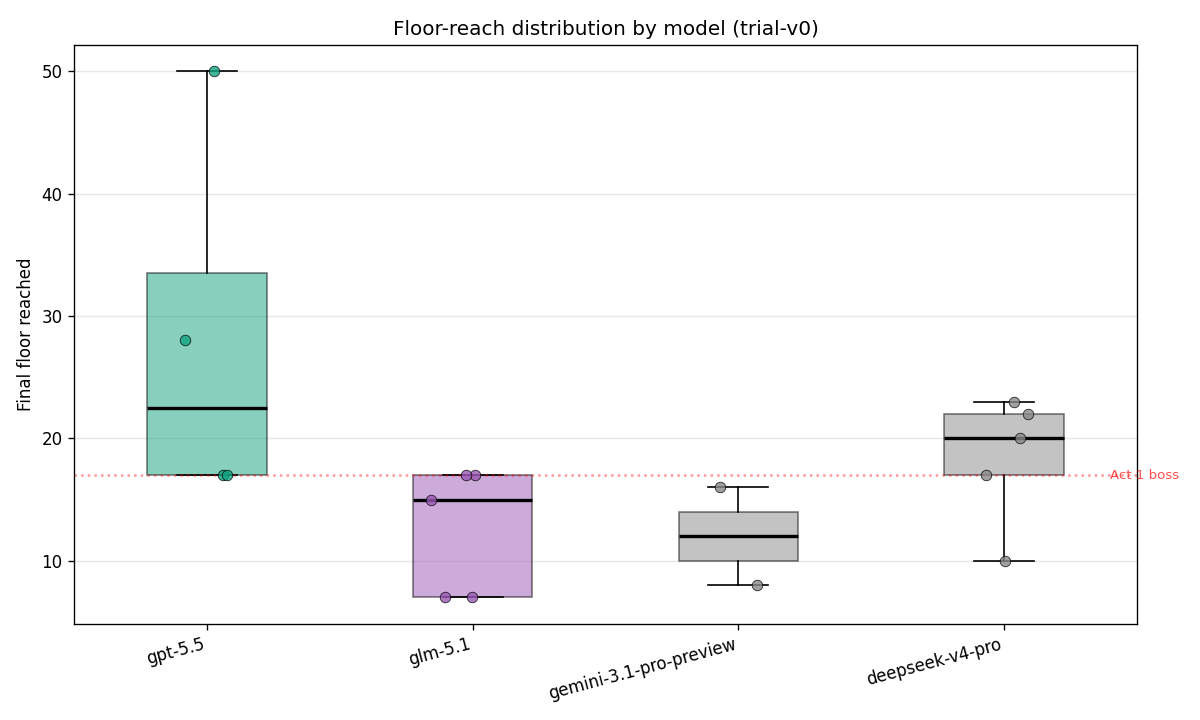
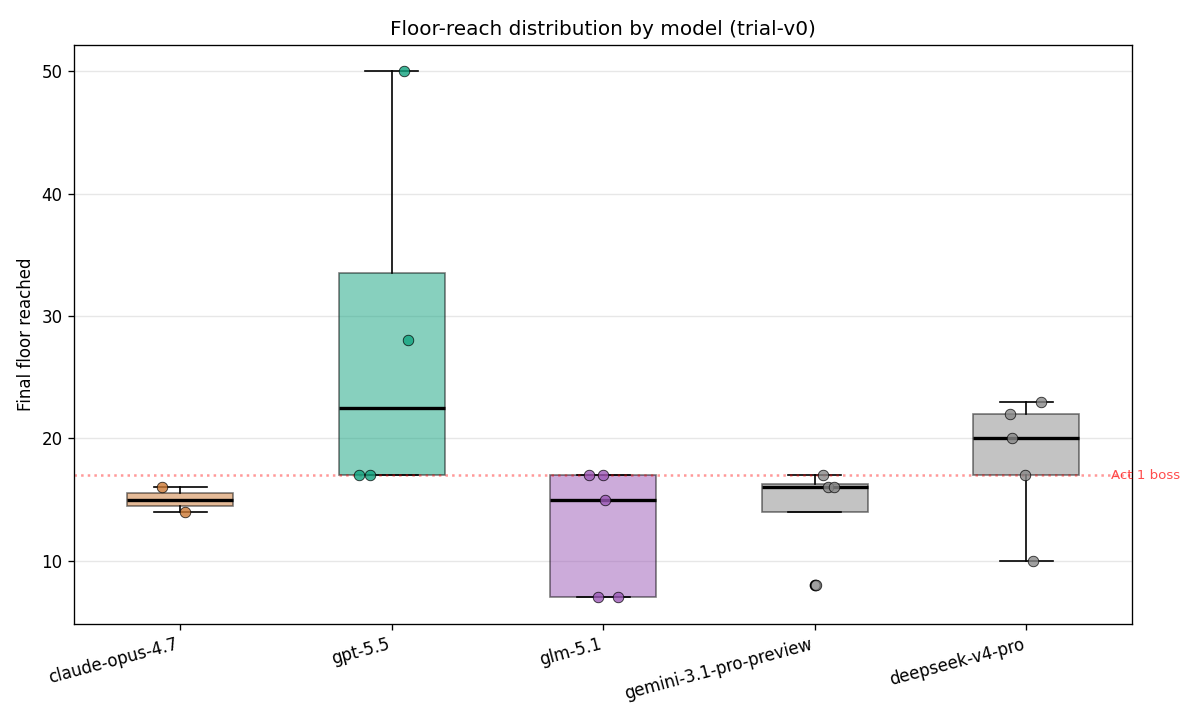
docs/benchmark/trial-v0-summary: regenerate with run22 (n=22)
Re-runs spirebench-summary.py against runs.csv now that run22
(claude-opus-4.7 SILENT F16 The Kin) is included. SILENT row n=4->5,
median floor 13.5->15, claude-opus-4.7 row n=1->2.

Charts regenerated against the updated dataset.

diff --git a/docs/benchmark/trial-v0-summary.md b/docs/benchmark/trial-v0-summary.md
@@ -5,9 +5,9 @@ re-run the script after appending new runs to `runs.csv`._
 
 ## Overview
 
-- Total runs: **18** (with run records: 18)
-- Halt reasons: death=15, stall=3
-- Models tested: deepseek-v4-pro, gemini-3.1-pro-preview, glm-5.1, gpt-5.5
+- Total runs: **22** (with run records: 22)
+- Halt reasons: death=19, stall=3
+- Models tested: claude-opus-4.7, deepseek-v4-pro, gemini-3.1-pro-preview, glm-5.1, gpt-5.5
 - Characters: DEFECT, IRONCLAD, NECROBINDER, REGENT, SILENT
 
 ## Per-model results
@@ -16,19 +16,20 @@ re-run the script after appending new runs to `runs.csv`._
 | --- | --- | --- | --- | --- | --- | --- | --- | --- | --- |
 | gpt-5.5 | 5 | 0 | 4 | 0 | 22.50 | 50.00 | 134052550 | 0.00 | 46834 |
 | deepseek-v4-pro | 5 | 0 | 4 | 0 | 20.00 | 23.00 | 94419575 | 14.57 | 4751 |
+| gemini-3.1-pro-preview | 5 | 0 | 4 | 0 | 16.00 | 17.00 | 23490997 | 0.00 | 3485 |
+| claude-opus-4.7 | 2 | 0 | 2 | 0 | 15.00 | 16.00 | 66855074 | 0.00 | 8338 |
 | glm-5.1 | 5 | 0 | 5 | 0 | 15.00 | 17.00 | 31671320 | 0.00 | 6181 |
-| gemini-3.1-pro-preview | 3 | 0 | 2 | 0 | 12.00 | 16.00 | 19031863 | 0.00 | 3644 |
 
 
 ## Per-character results
 
 | character | runs | victories | median_floor | max_floor |
 | --- | --- | --- | --- | --- |
-| IRONCLAD | 4 | 0 | 18.00 | 50.00 |
-| SILENT | 4 | 0 | 13.50 | 28.00 |
-| DEFECT | 3 | 0 | 19.50 | 22.00 |
+| IRONCLAD | 5 | 0 | 16.00 | 50.00 |
+| SILENT | 5 | 0 | 16.00 | 28.00 |
+| DEFECT | 4 | 0 | 17.00 | 22.00 |
 | REGENT | 4 | 0 | 17.00 | 17.00 |
-| NECROBINDER | 3 | 0 | 17.00 | 23.00 |
+| NECROBINDER | 4 | 0 | 17.00 | 23.00 |
 
 
 ## Charts
